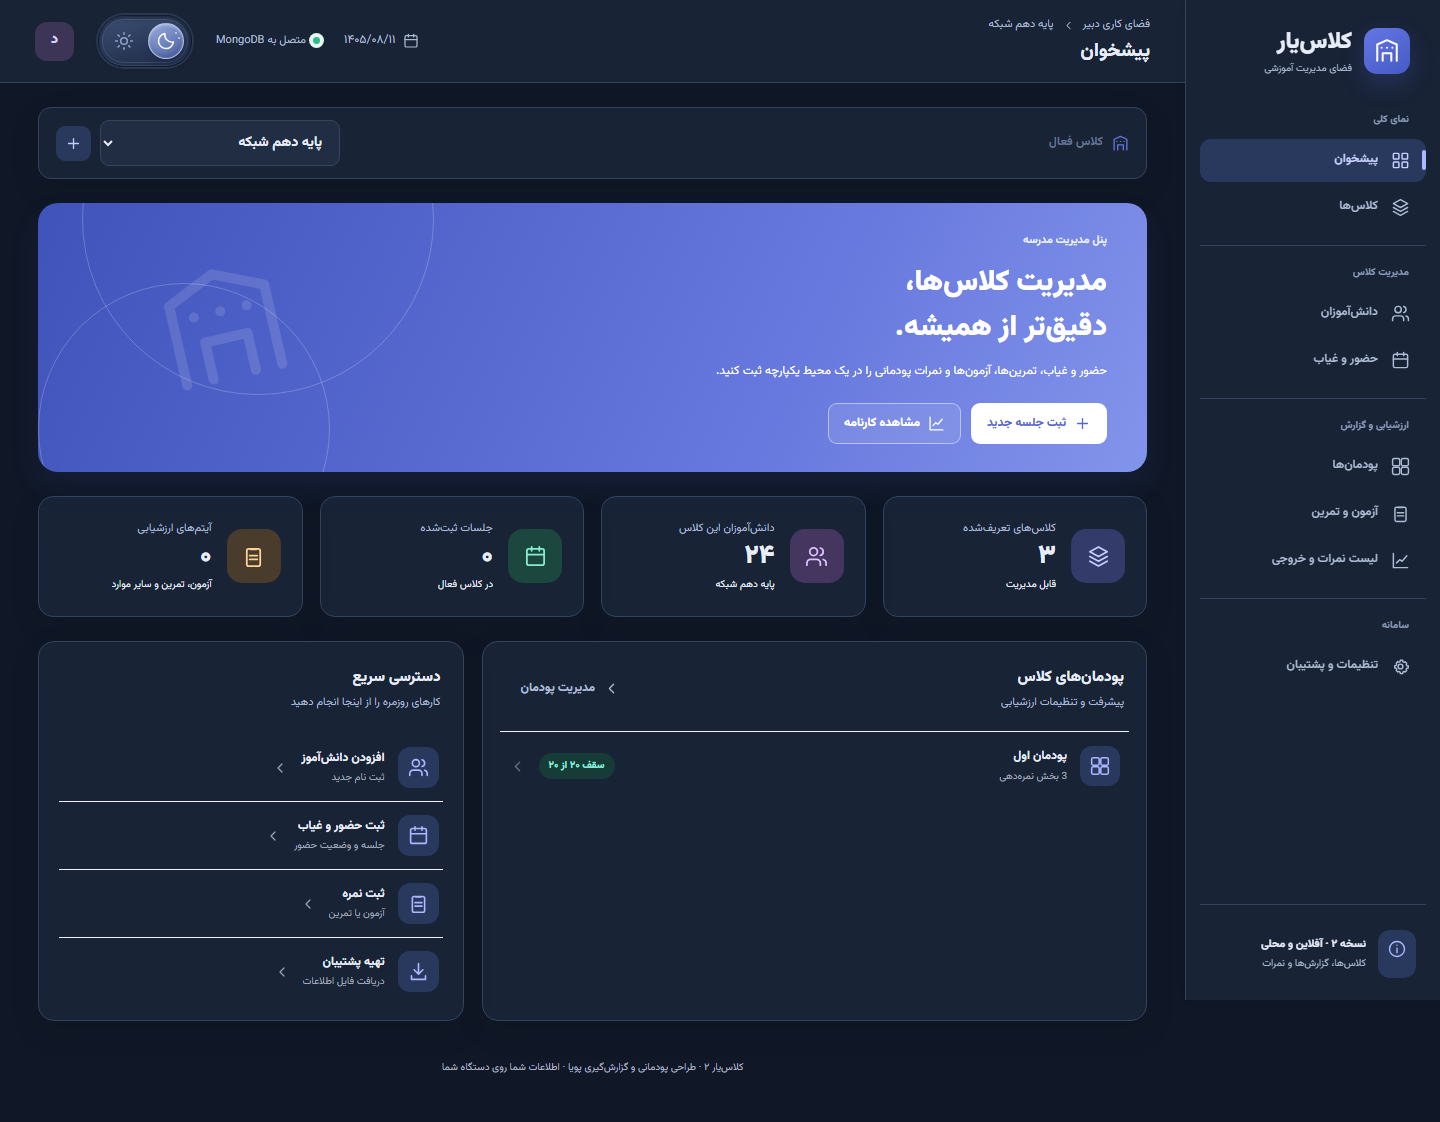
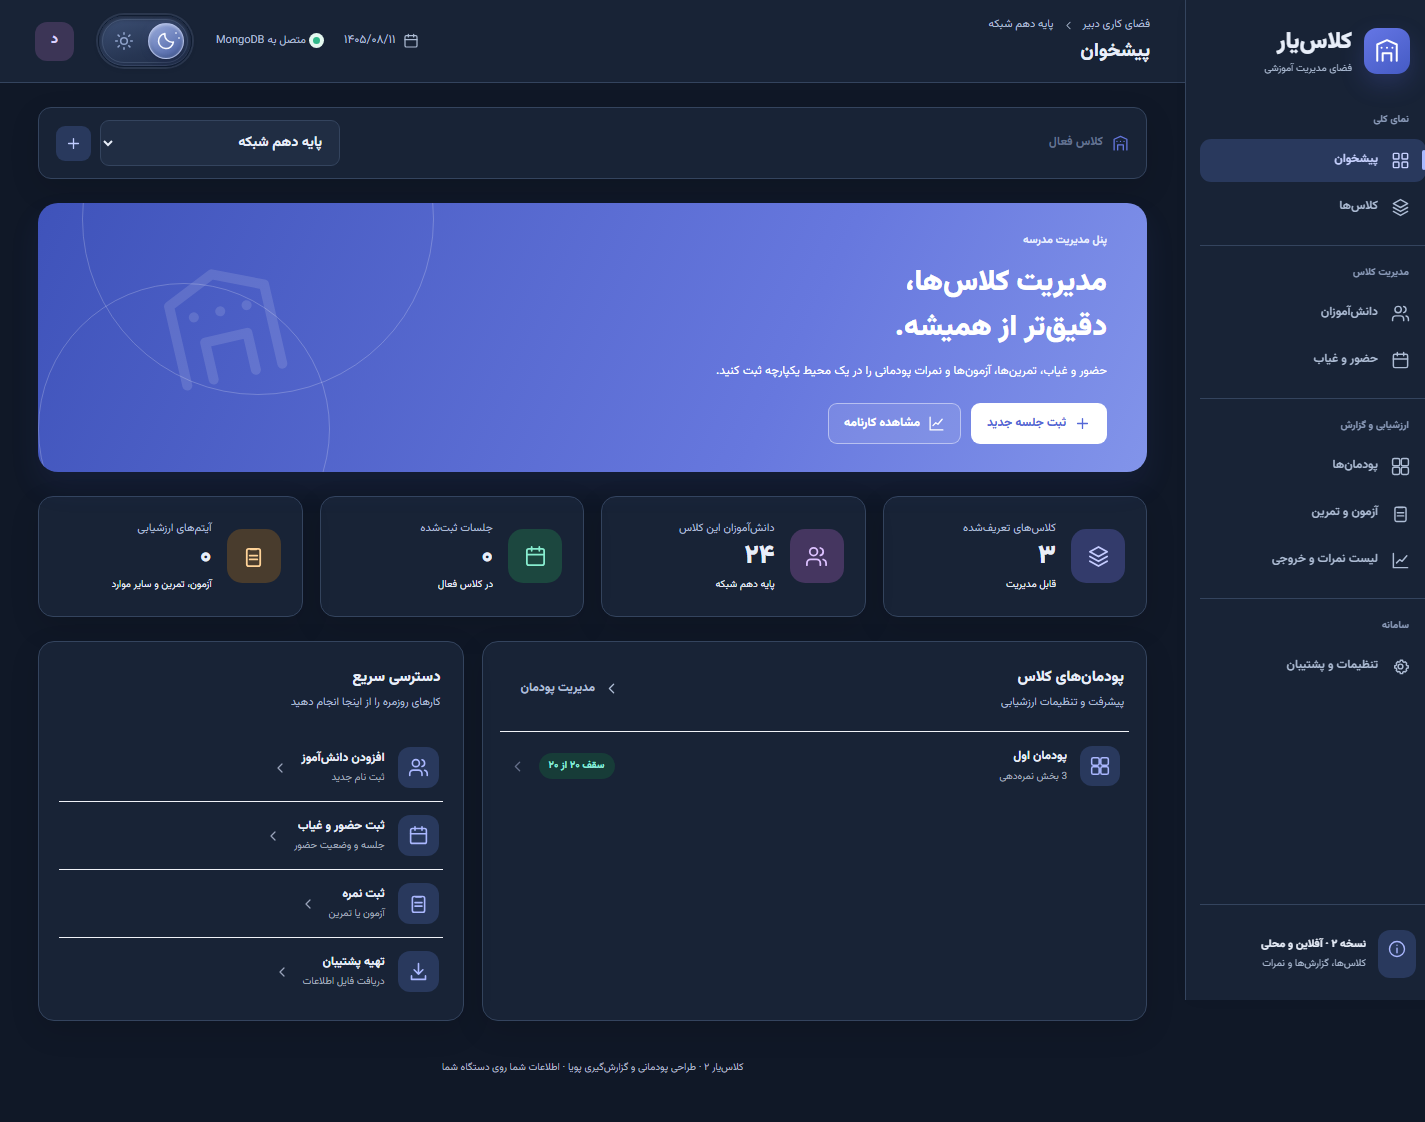
Match light theme switch to reference design

diff --git a/src/theme.css b/src/theme.css
@@ -57,6 +57,14 @@ button:focus-visible,input:focus-visible,select:focus-visible,textarea:focus-vis
 .theme-option-content {display:grid;place-items:center;pointer-events:none}
 .theme-option:has(input[value="dark"]) .theme-option-content:after {content:"";position:absolute;top:12px;right:10px;width:2px;height:2px;border-radius:50%;background:currentColor;box-shadow:3px 5px 0 currentColor;opacity:.7}
 .theme-option input {position:absolute;inset:0;opacity:0;width:100%;height:100%;margin:0;cursor:pointer}
+.theme-selector[data-selected="light"] {border-color:#c4d0ec;background:linear-gradient(155deg,#edf2ff,#dce3fb 65%,#d5ddf6);box-shadow:inset 0 2px 5px #93a5d03d,inset 0 -1px 2px #fff,0 0 0 2px #e6ecfb,0 2px 6px #8c9fc52e}
+.theme-selector[data-selected="light"]:before {border-color:#adbee361}
+.theme-selector[data-selected="light"] .theme-thumb {border-color:#fff;background:linear-gradient(145deg,#fff,#fbfcff 65%,#f3f6ff);box-shadow:inset 0 1px 3px #fff,0 2px 6px #8296c34d,0 0 5px #fff8}
+.theme-selector[data-selected="light"] .theme-option {color:#b2badf}
+.theme-selector[data-selected="light"] .theme-option:hover {color:#8191be}
+.theme-selector[data-selected="light"] .theme-option:has(input[value="light"]:checked) {color:#bf8b37}
+.theme-selector[data-selected="light"] .theme-option:has(input:focus-visible) {outline-color:#687ebf}
+.theme-selector[data-selected="light"] .theme-option-content:after {display:none}
 .font-option:has(input:focus-visible) {outline:3px solid var(--accent);outline-offset:3px}
 .font-option input {appearance:none;flex-shrink:0;width:15px;height:15px;margin:0;border:1.5px solid var(--subtext);border-radius:50%;background:var(--surface);cursor:pointer}
 .font-option input:checked {border-color:var(--accent);background:var(--accent);box-shadow:inset 0 0 0 3px var(--surface)}
